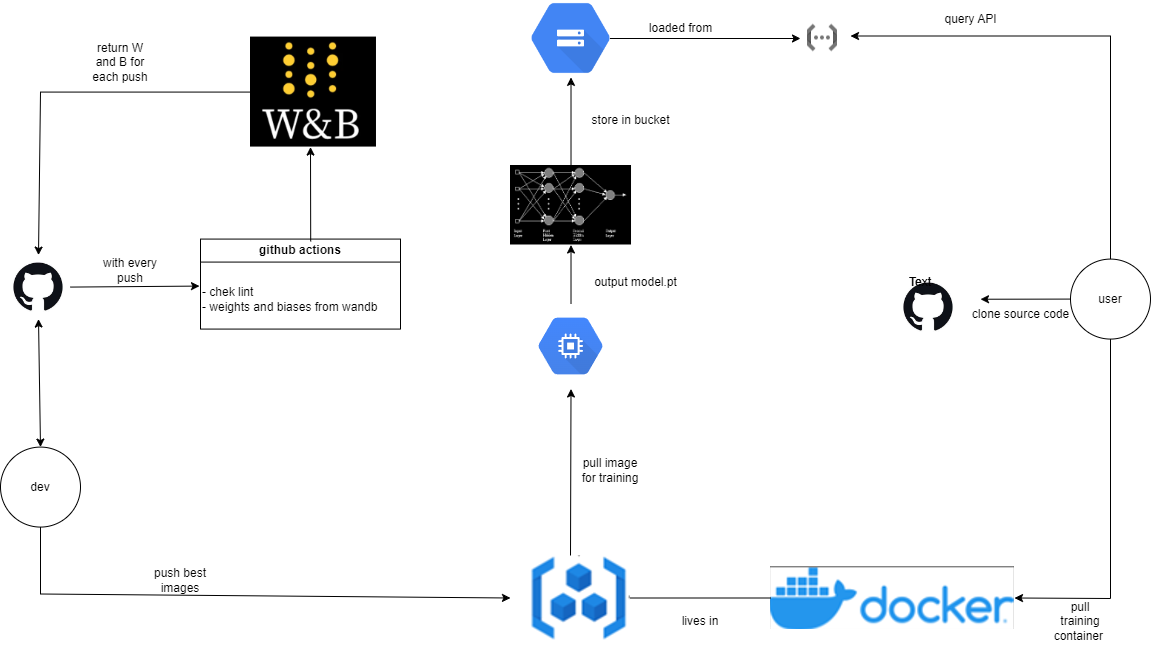
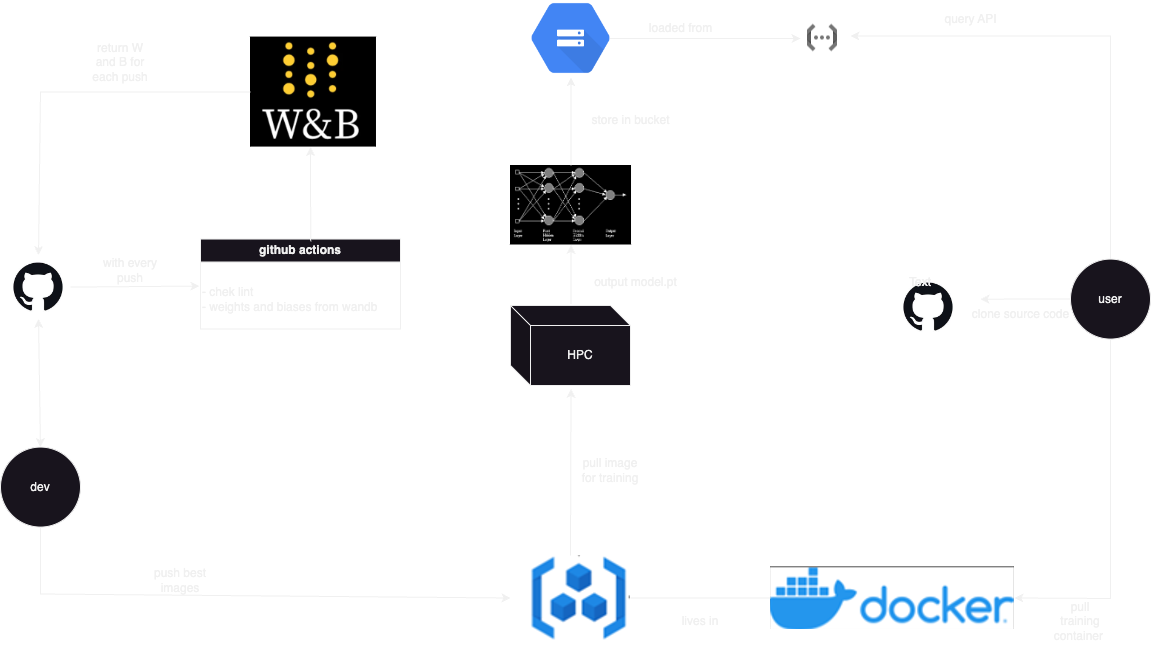
added overview.png

diff --git a/reports/README.md b/reports/README.md
@@ -452,11 +452,12 @@ Cloud functions: Used to serve our model
 > *using a custom container: ...*
 >
 > Answer:
+We orignally used a compute engine on GCP to train the model on an 8 core high performing cpu VM. 
+We started the compute engine with a docker image uploaded to the registry. 
+This docker image mounted the bucket data and created a processed dataset which it then used for training.
 
-For training purposes we have used the Technion's data centers for our experiments, as we had access to GPUs there. We have built a docker image for training, and deployed the containers on the HPC server. 
-
-We did not have to use the compute engine for our project for the long training part, as we had access to the HPC server.
-
+However, since Technion's data centers made their HPC server available to use for training we later opted to use it for both training and our experiments, as we had access to GPUs there. 
+We have built a docker image for training, and deployed the containers on the HPC server. 
 
 ### Question 19
 
@@ -476,8 +477,7 @@ We did not have to use the compute engine for our project for the long training 
 >
 > Answer:
 
-As mentioned in question 18, we did not use the GCP container registry, as we had access to the HPC server. We do have checkpoints for weights and biases, but we did not store them in the container registry.
-
+![my_image](figures/registry.png)
 
 ### Question 21
 
@@ -486,7 +486,7 @@ As mentioned in question 18, we did not use the GCP container registry, as we ha
 >
 > Answer:
 
-As mentioned in question 18, we did not use the GCP cloud build history, as we had access to the HPC server. The cloud build history would have been useful if we had used the GCP compute engine to train our model but since we did not, we did not use it.
+We did not use the GCP cloud build history, as we had access to the HPC server.
 
 ### Question 22
 
@@ -502,7 +502,8 @@ As mentioned in question 18, we did not use the GCP cloud build history, as we h
 >
 > Answer:
 
-We deployed our model using Google Cloud Functions. We deployed everything (code, data, and model) to the gcp bucket, and then we used the cloud functions to serve the model.
+We deployed our model using Google Cloud Functions. 
+We deployed everything (code, data, and model) to the gcp bucket, and then we used the cloud functions to serve the model.
 
 ### Question 23
 
@@ -539,7 +540,8 @@ ensuring the model continues to perform optimally and meet users' needs.
 > Answer:
 
 Not more than 200dkk. 
-We spent most of the budget on making experiments at the begining with the compute engine and eventually decided to continue the experiments on the HPC server we had access to (as mentioned before). We then spent most of our budget on serving the model through cloud functions and the bucket for storage.
+We spent most of the budget on making experiments at the begining with the compute engine and eventually decided to continue the experiments on the HPC server we had access to (as mentioned before). 
+We then spent most of our budget on serving the model through cloud functions and the bucket for storage.
 
 
 ## Overall discussion of project
@@ -560,10 +562,28 @@ We spent most of the budget on making experiments at the begining with the compu
 > *Whenever we commit code and puch to github, it auto triggers ... and ... . From there the diagram shows ...*
 >
 > Answer:
-```markdown
-![my_image](figures/overview.png)
-```
 
+![my_image](figures/overview.png)
+
+This diagram follows two roles a user that wishes to use the model and a developer that wishes to contribute to the 
+project. 
+
+The user has the following options:
+- access model output through a restful API
+	- the output from the model is served through cloud functions which loads the model from a gcp bucket and returns the output
+	- the model is pulled from the registry and trained on the HPC server
+- clone the source code and run training or inference locally using a virtual environment
+- pull various docker images from the container registry to ensure reproducibility
+
+
+The dev has the following options
+- push and pull to github as he pleases
+	- with every push his build is sent to wandb which will return a csv file with various model metrics
+	- linting will also be checked to ensure high quality code standard
+	
+- push new docker images to the registry
+	- these images will then serve the user role be used in future training. The existing docker image will be overwritten
+	
 
 ### Question 26
 
